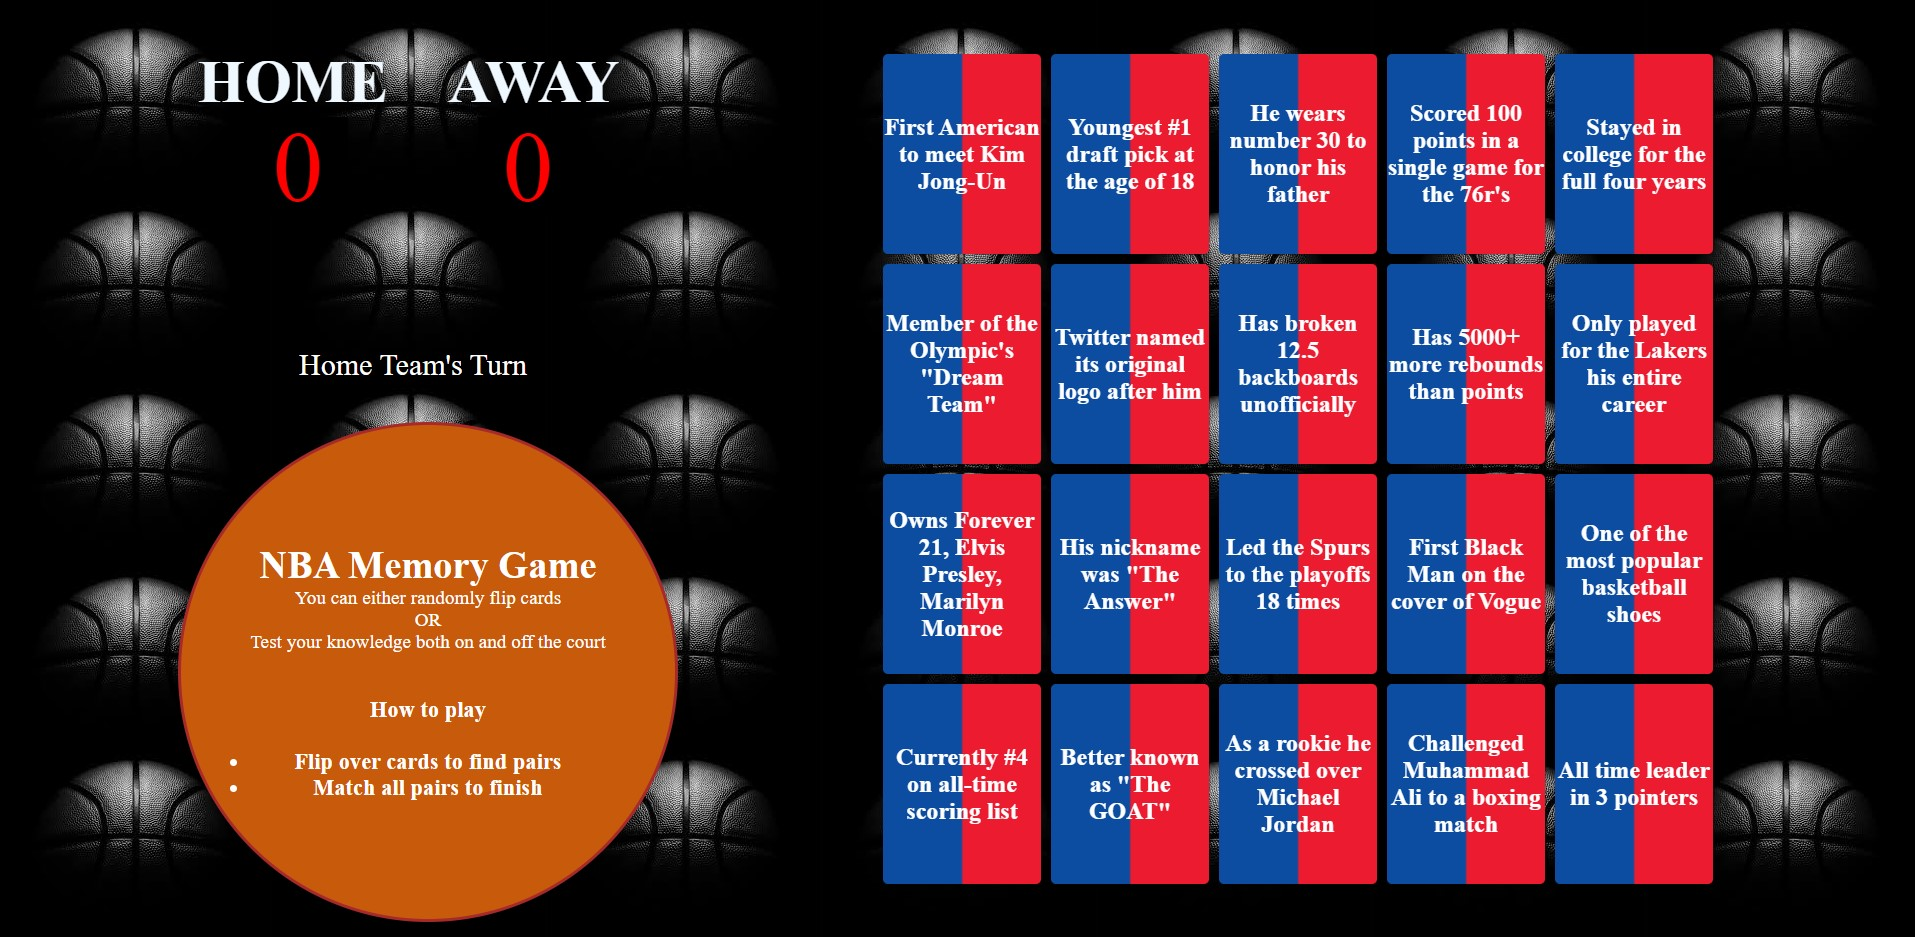
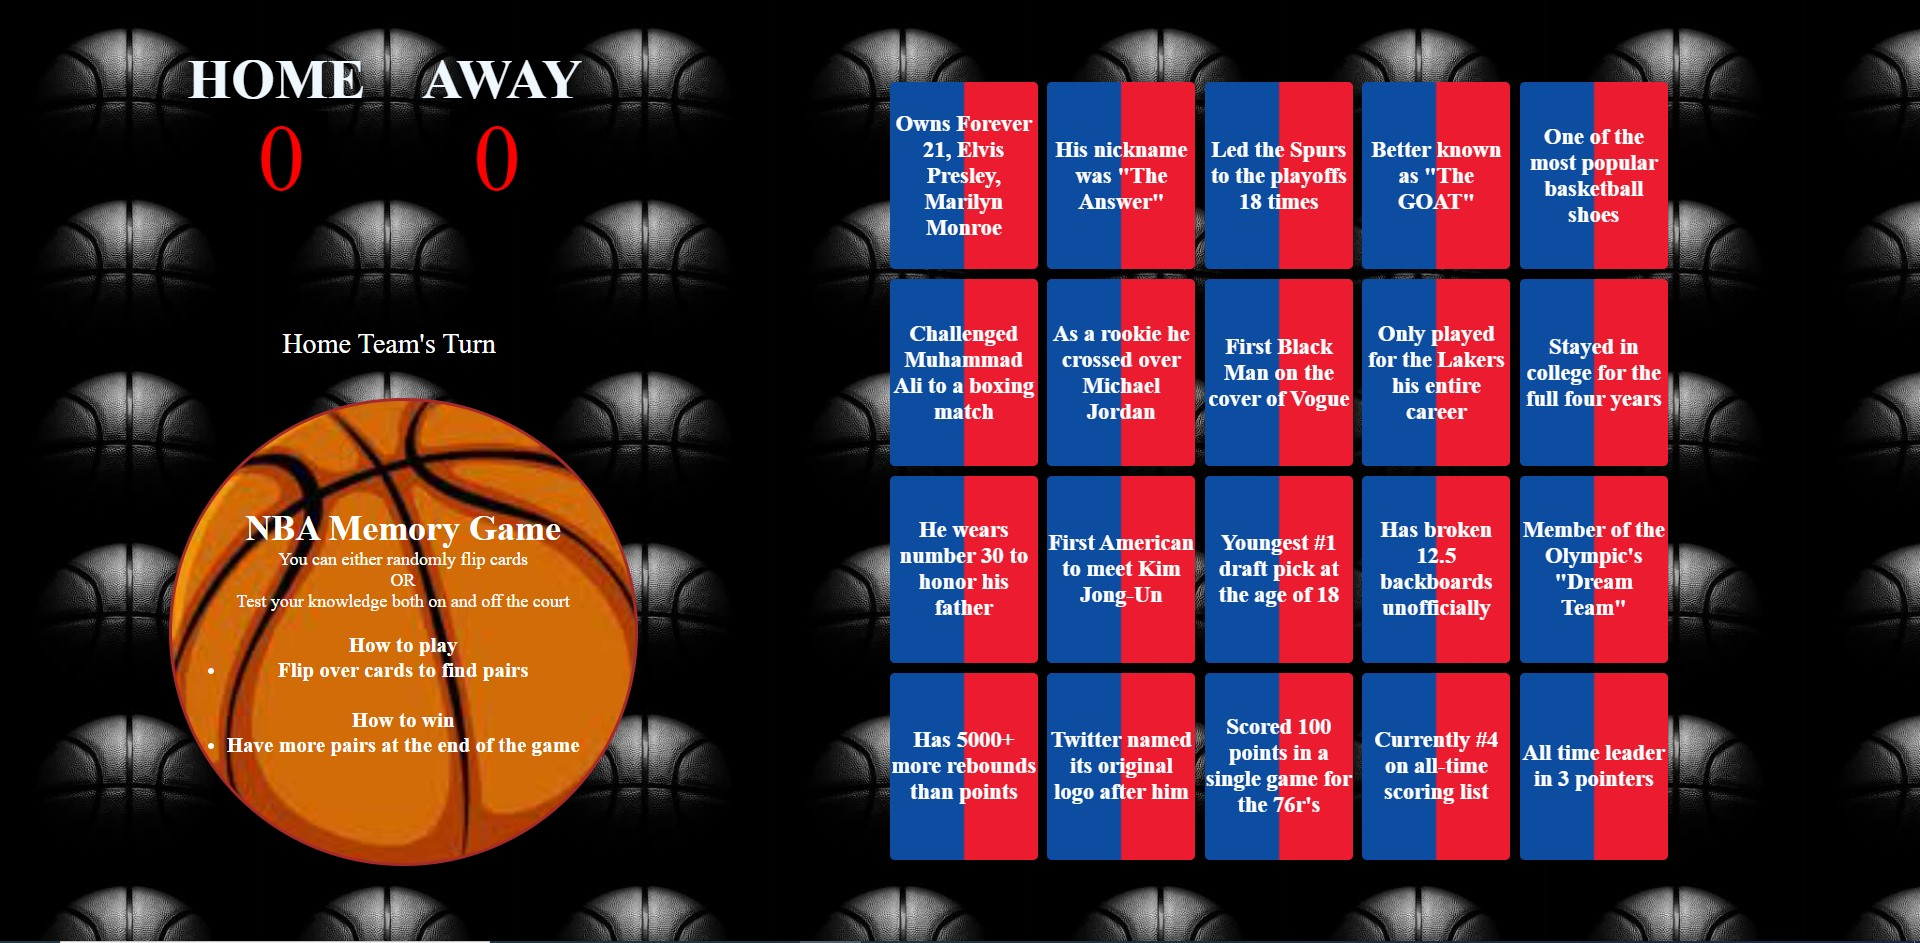
third commit

diff --git a/Memory-Game/index.html b/Memory-Game/index.html
@@ -33,13 +33,16 @@
             Test your knowledge both on and off the court
         <br>
         <br>  
-        <br>  
                 <h3 class="side">How to play</li>
-        <br>
-        <br>            
+        <br>          
                 <ul>                
                     <li>Flip over cards to find pairs </li>
-                    <li>Match all pairs to finish</li>
+                </ul>
+                <br>   
+                <h3 class="side">How to win</li>
+                    <br>         
+                <ul>                
+                     <li>Have more pairs at the end of the game</li>
                 </ul>
                 
         </div>

diff --git a/Memory-Game/style.css b/Memory-Game/style.css
@@ -83,7 +83,10 @@ h2{
   margin-top: 40px;
   font-size: larger;
   color: #ffffff;
-  background-color: rgb(200, 90, 11);
+  background-image: url(images/basketballrules.jpg);
+  background-repeat: no-repeat;
+  background-size: 650px;
+  background-position: center;
   border-radius: 500px;
 }
 

diff --git a/Memory-Game/README.md b/Memory-Game/README.md
@@ -4,6 +4,9 @@ NBA Memory Game is your simple memory game but with a twist. You can either flip
 <br>
 <br>
 
+## Link To Game 
+[MemoryGame]( https://danielmorris710.github.io/Memory-Game/index.html)
+
 ## Preview
 ![Begin Game](images/Screenshot1.jpg)
 <br>
